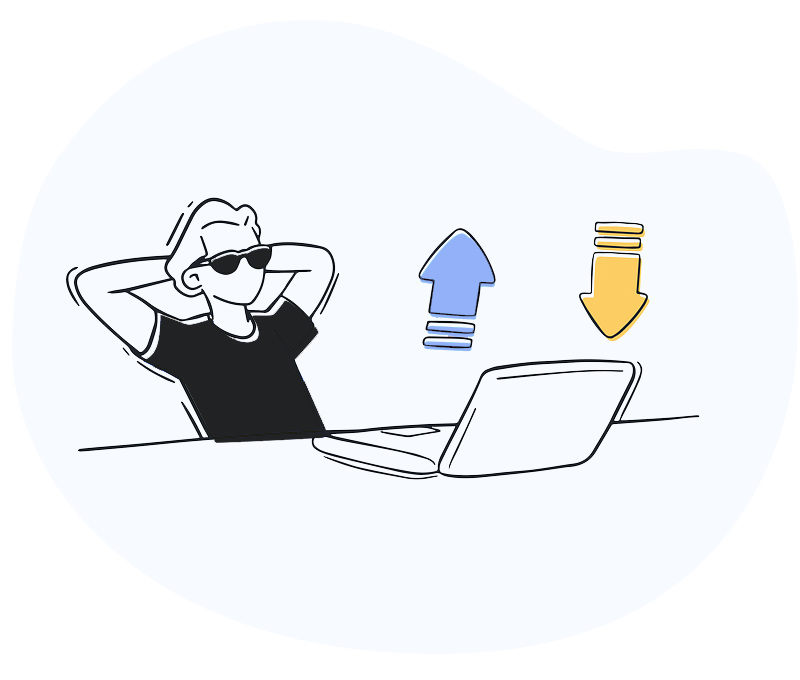
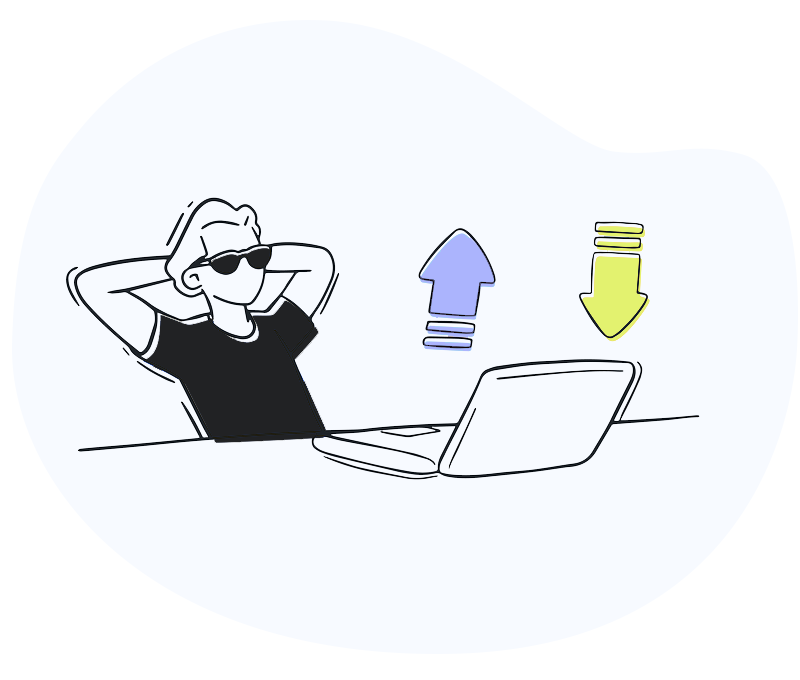
minor update

Changed region(s): [[0.7188, 0.3088, 0.8125, 0.4941], [0.5312, 0.3397, 0.625, 0.525]]

diff --git a/src/Hero.tsx b/src/Hero.tsx
@@ -1,4 +1,4 @@
-import { Flex, Box, Image, Text, Button, Icon } from "@chakra-ui/react";
+import { Flex, Box, Image, Text, Button, Icon, Mark } from "@chakra-ui/react";
 import styled from "styled-components";
 
 import { HiOutlineArrowNarrowRight } from "react-icons/hi";
@@ -23,8 +23,15 @@ export const Hero = () => {
         px={{ base: "10%", lg: "0" }}
         flex={1}
       >
-        <Text fontSize="5xl" fontWeight={500}>
-          Making Your Swap Experience Easier and Smoother
+        <Text fontSize={{ base: "3xl", md: "5xl" }} fontWeight={500}>
+          Making your Swap experience{" "}
+          <Mark bg="#ccd2fd" px={2}>
+            Easier
+          </Mark>{" "}
+          and{" "}
+          <Mark bg="#f4fea2" px={2}>
+            Smoother
+          </Mark>
         </Text>
         <Text mt={4} fontSize="lg">
           Basex was designed to onboard the next generation of protocols to the
